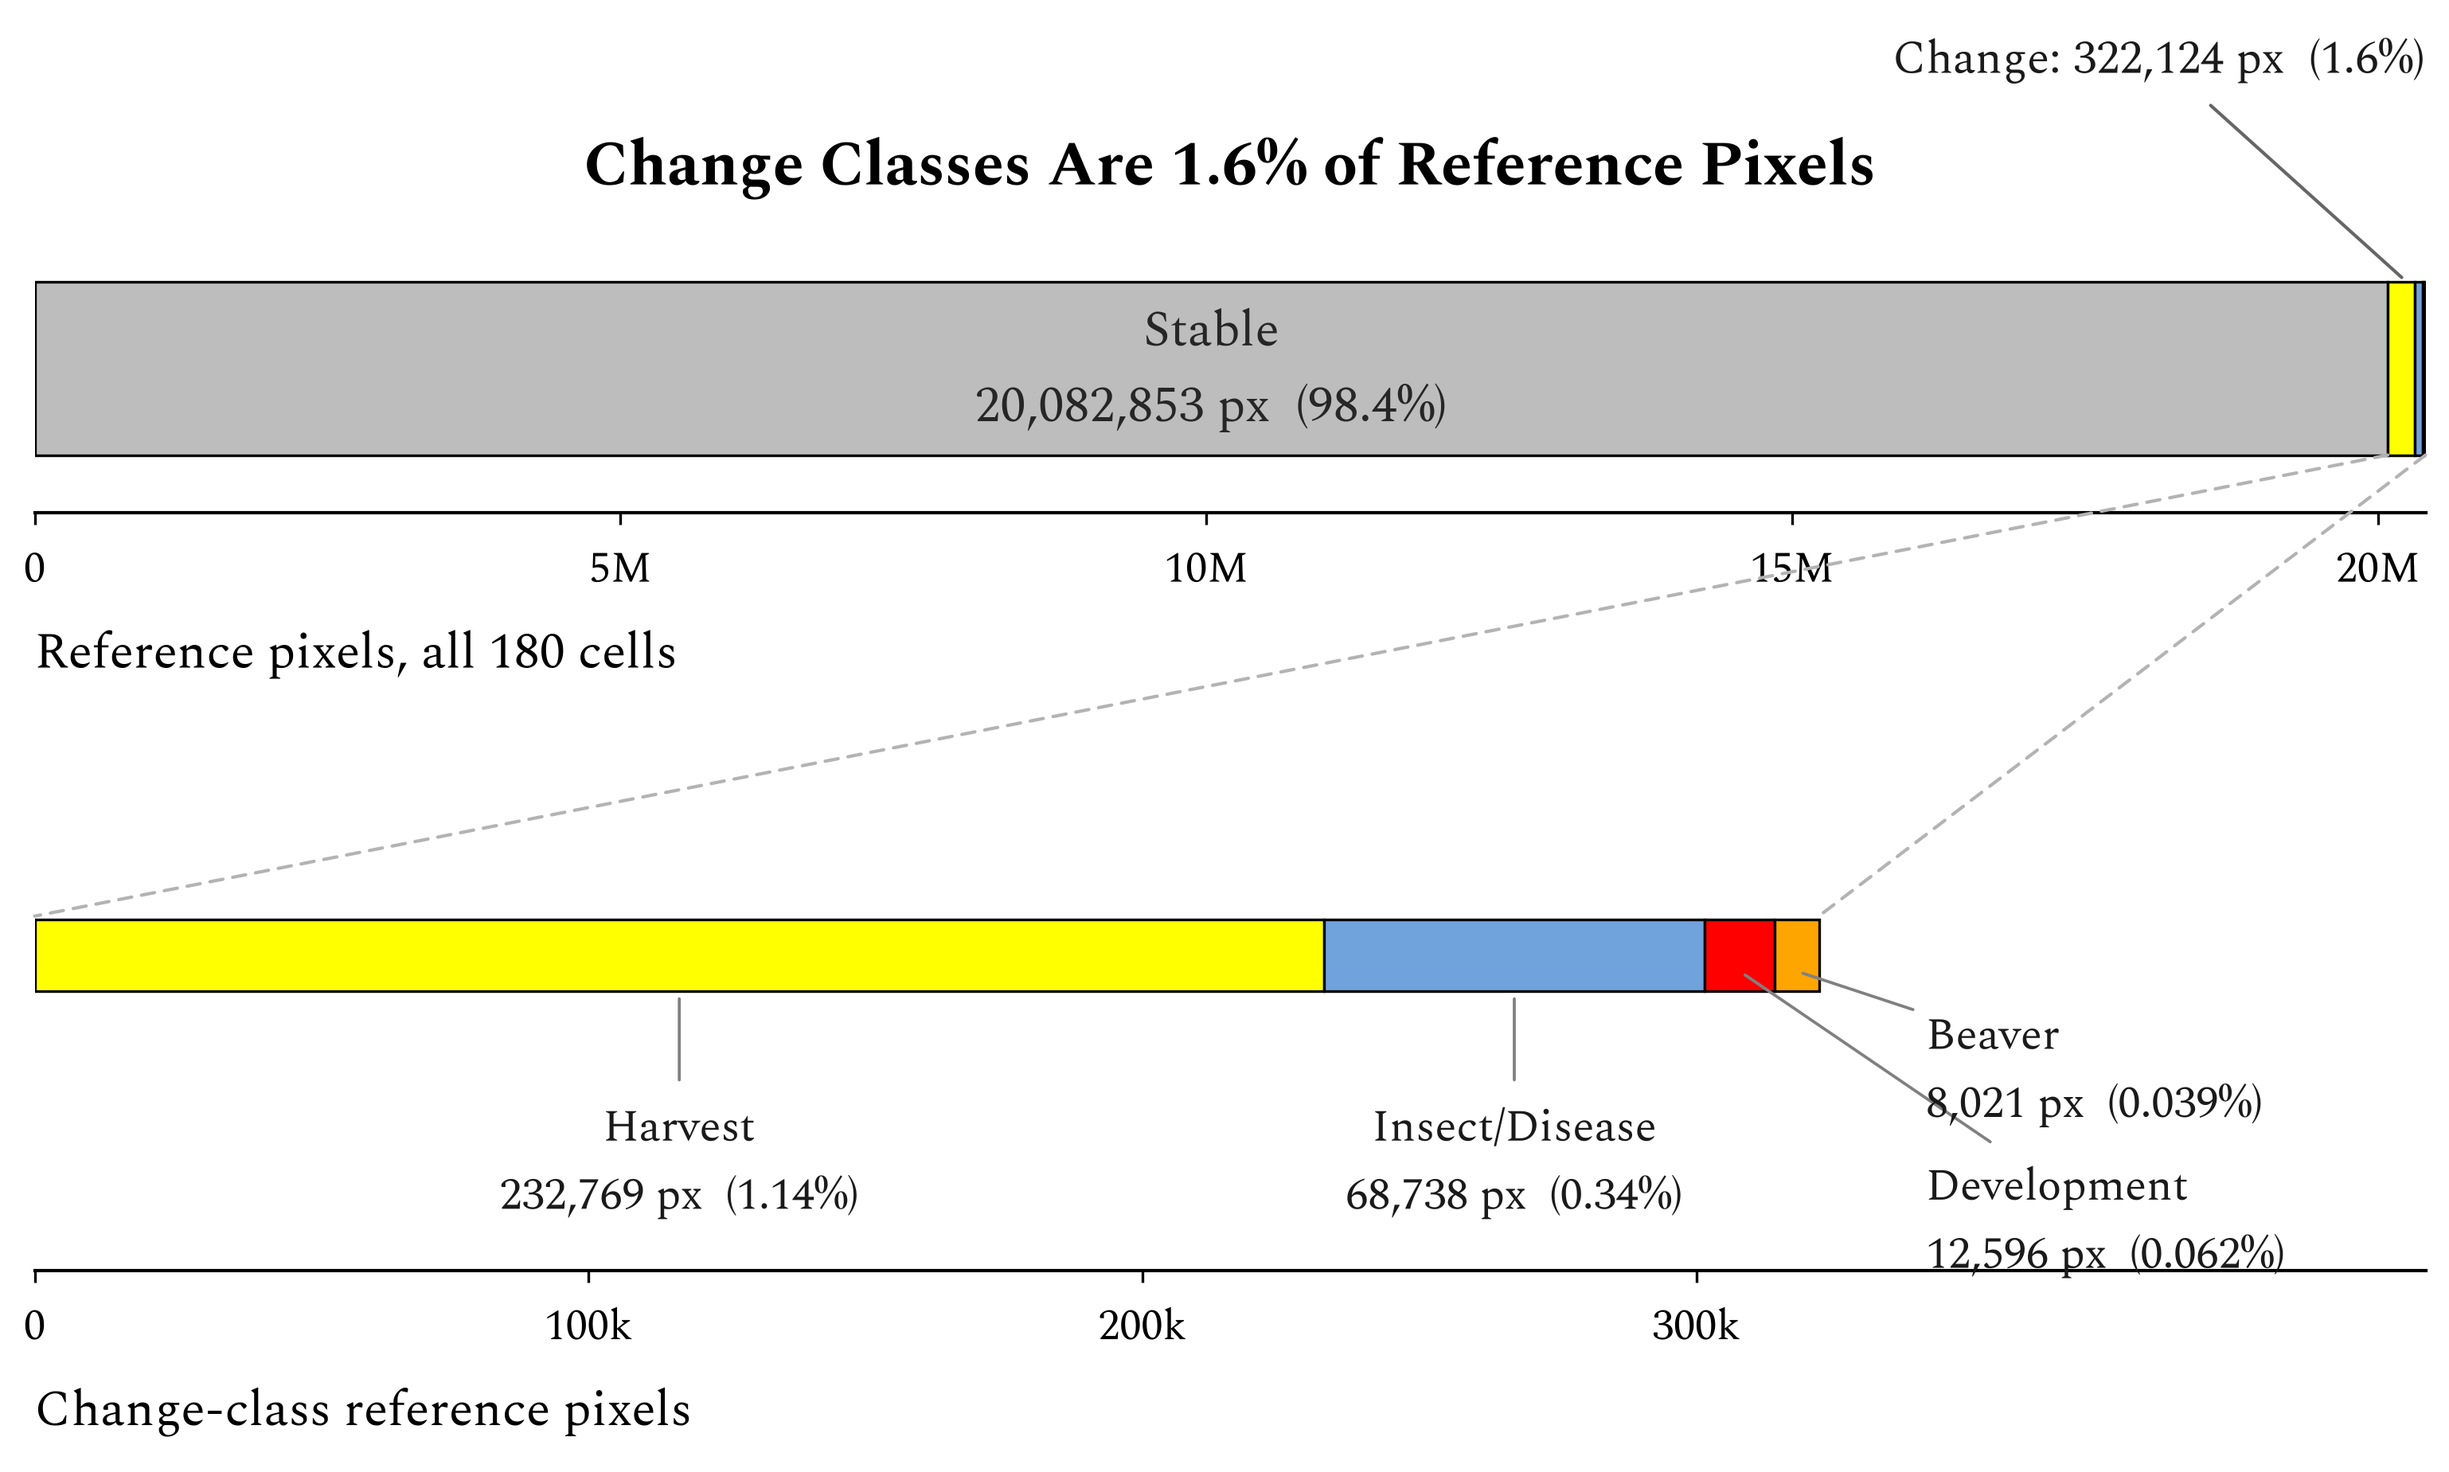
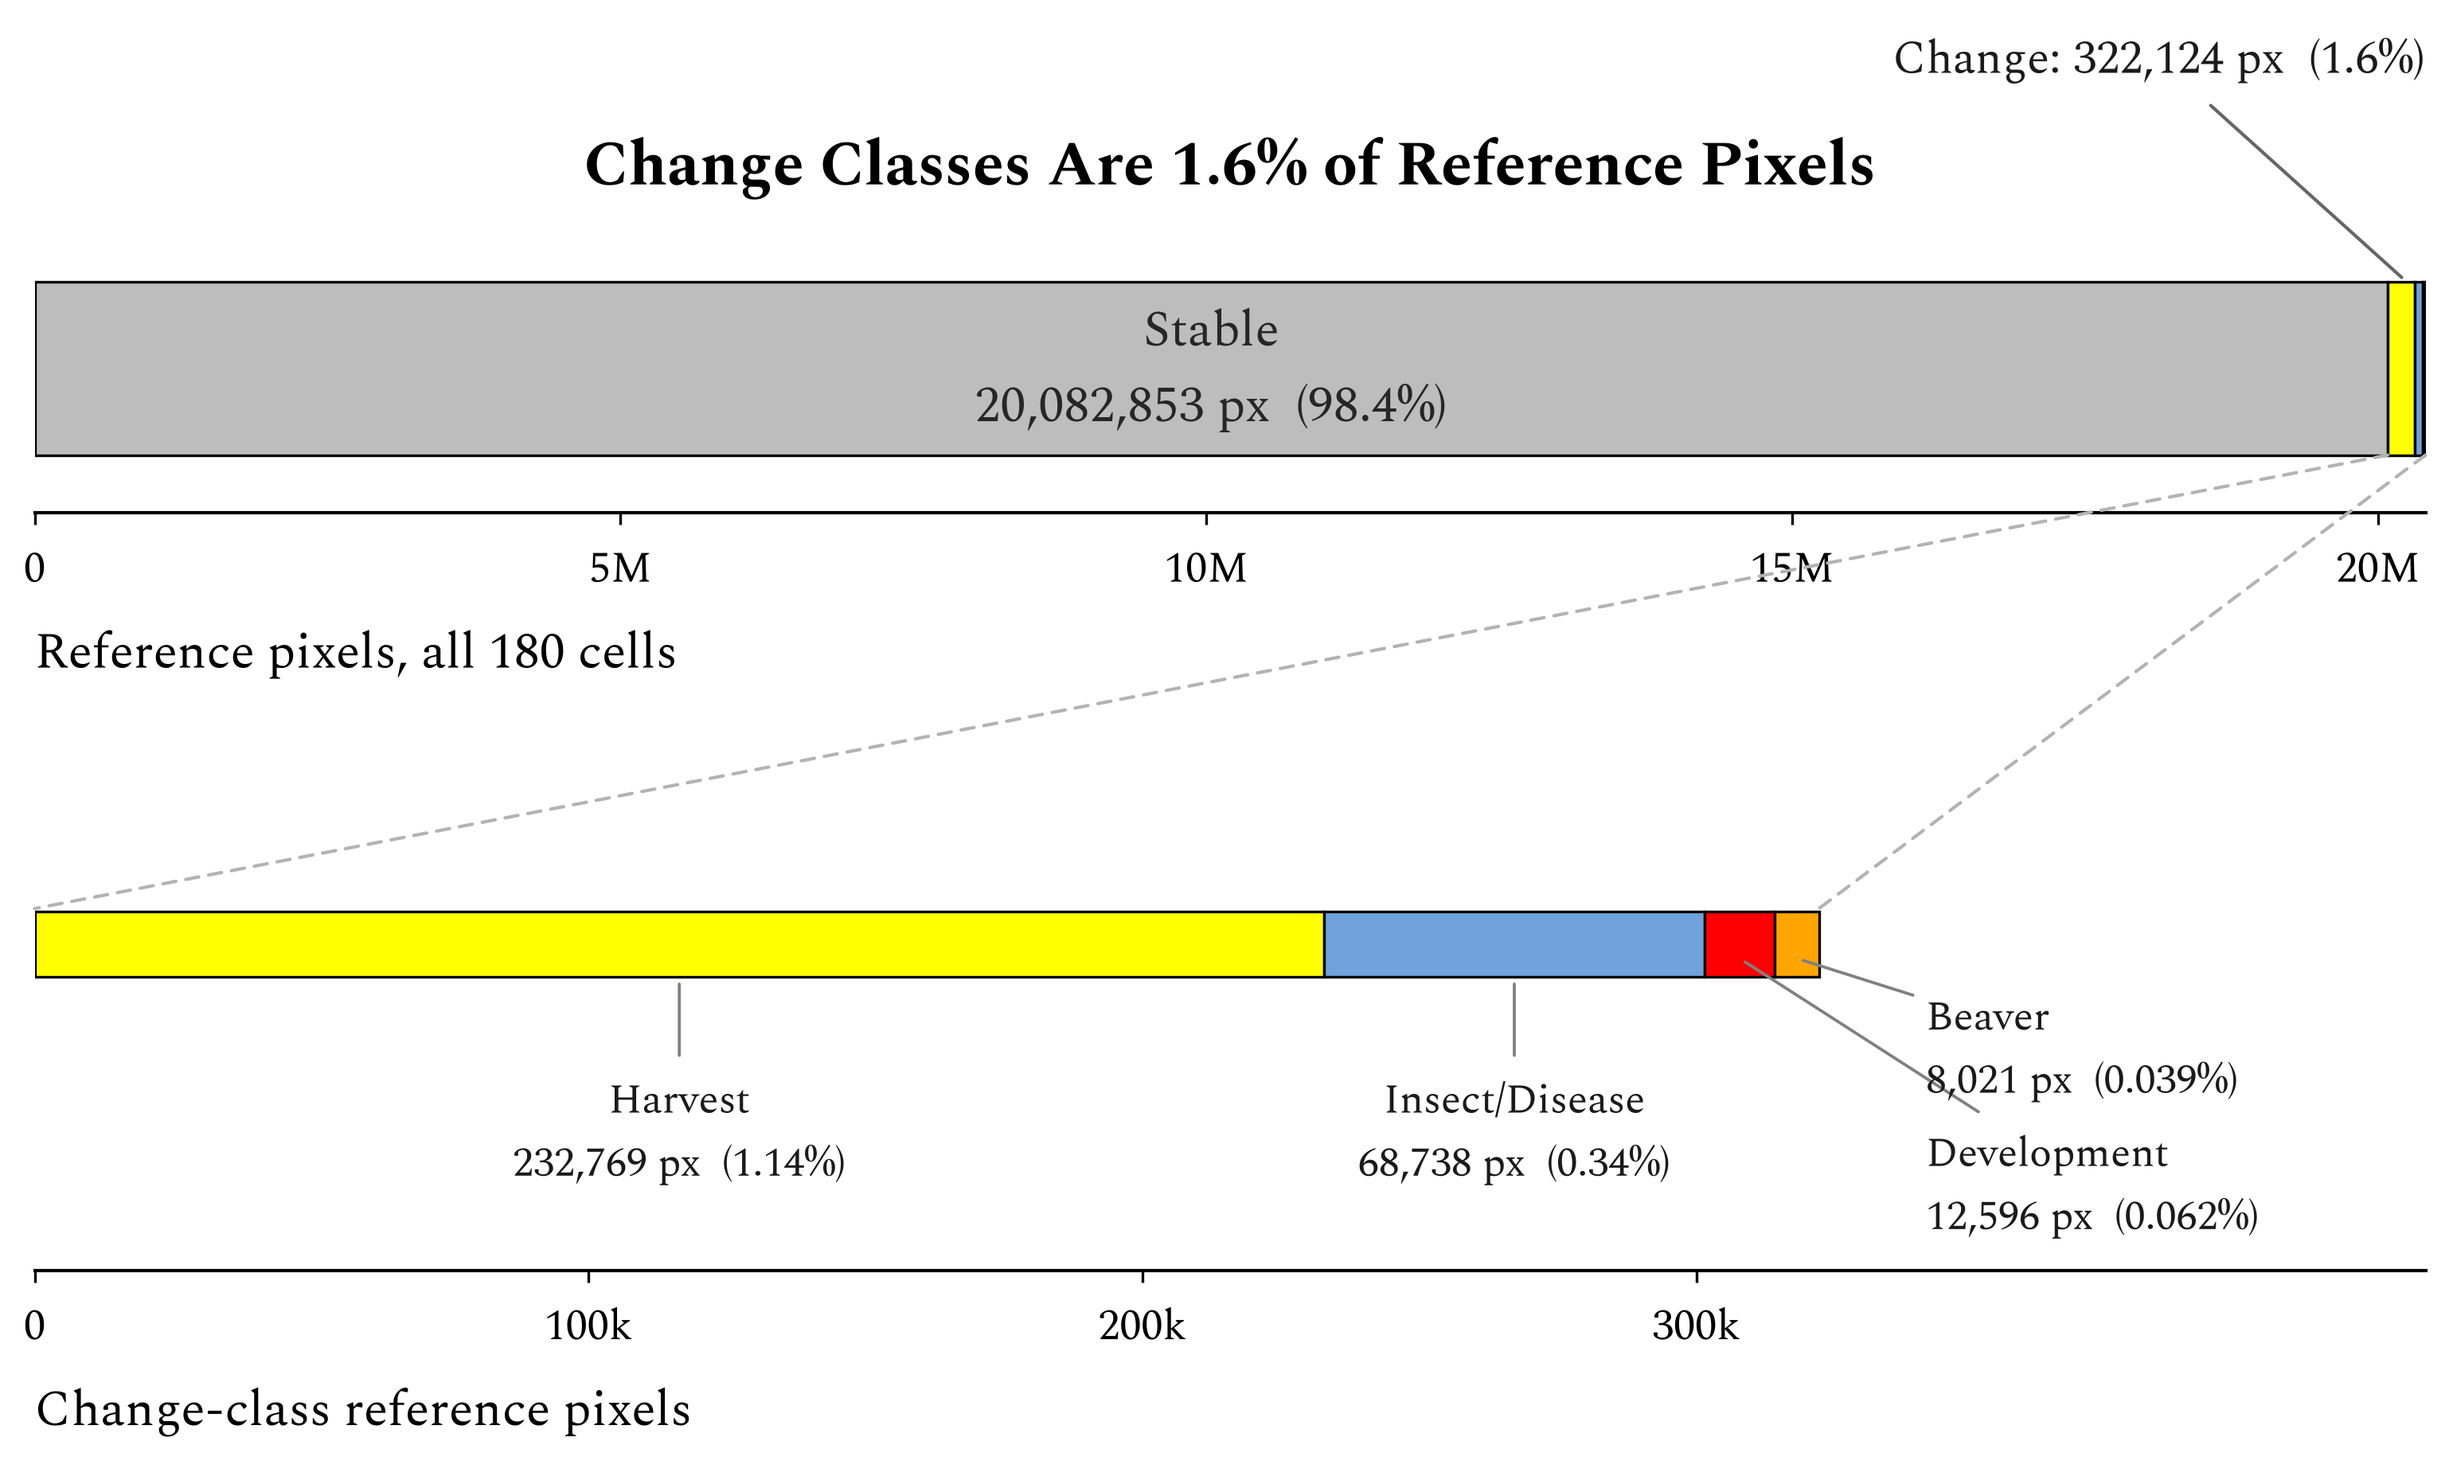
pres_02: keep change-class labels off the x-axis line under Spectral

diff --git a/presentation/scripts/pres_02_rarity.py b/presentation/scripts/pres_02_rarity.py
@@ -106,7 +106,7 @@ def main():
         centers[c] = cumb + change[c] / 2
         cumb += change[c]
     axB.set_xlim(0, change_total * 1.34)
-    axB.set_ylim(-2.4, 0.9)
+    axB.set_ylim(-2.75, 0.9)
     axB.set_yticks([])
     axB.set_xticks([0, 1e5, 2e5, 3e5])
     axB.set_xticklabels(["0", "100k", "200k", "300k"], fontsize=13)
@@ -126,7 +126,7 @@ def main():
         lx, ly, ha, yanchor = lab[c]
         axB.annotate(f"{c}\n{change[c]:,} px  ({_pct(100*change[c]/total)})",
                      xy=(centers[c], yanchor), xytext=(lx, ly), ha=ha, va="top",
-                     fontsize=13.5, color="0.1", arrowprops=dict(arrowstyle="-", color="0.5", lw=0.9))
+                     fontsize=12.5, color="0.1", arrowprops=dict(arrowstyle="-", color="0.5", lw=0.9))
 
     # zoom funnel connecting the change sliver in A to the full width of B
     for xa, xb in [(stable_total, 0), (total, change_total)]:
